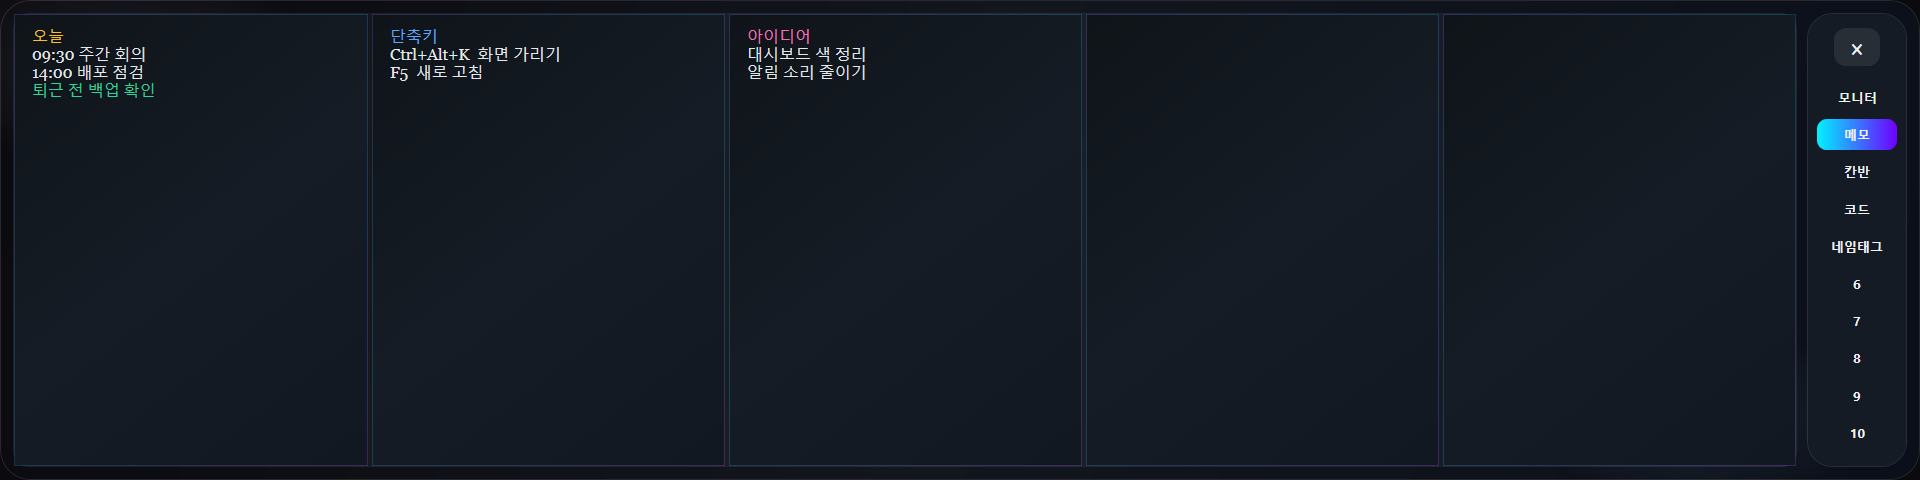
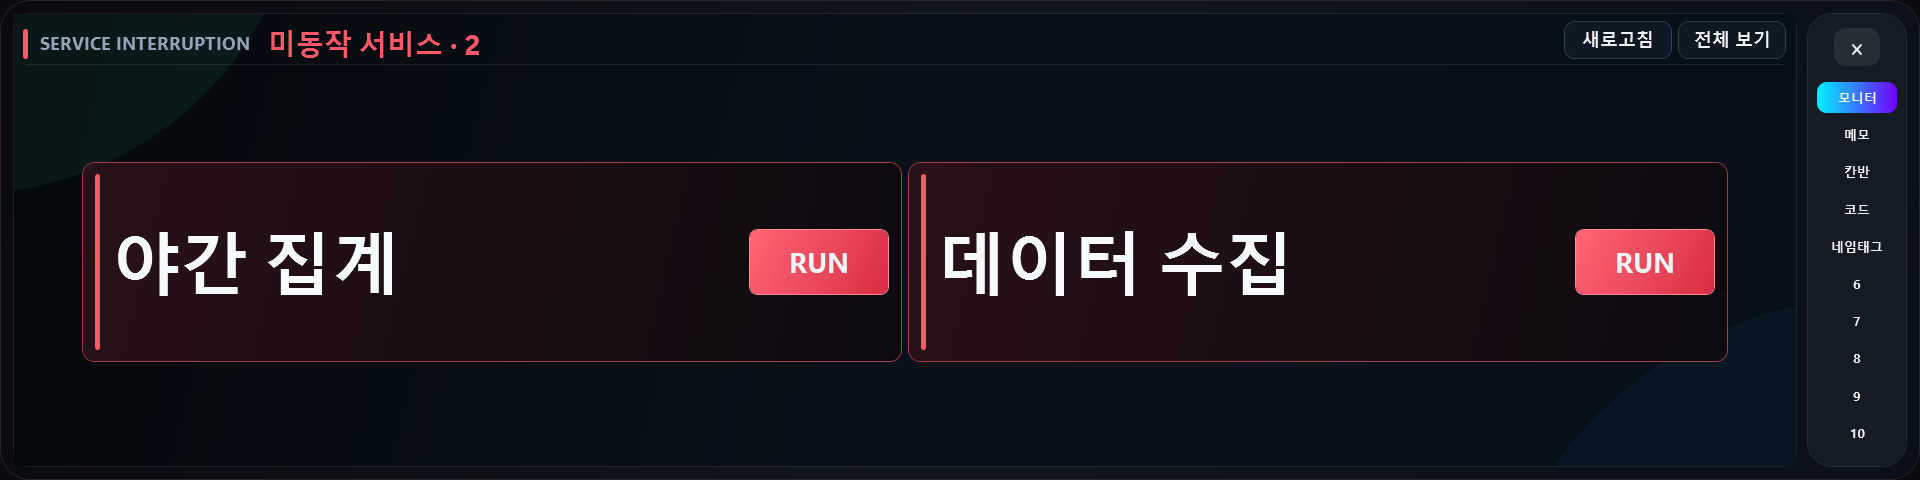
WIDE store screenshots: monitor screen (stopped services, overview); i-api 3.4.2 fills a listed app's screenshots up to three
- wide-1/wide-2 = monitor screen rendered from the real WIDE window with sample services
  (no database), the memo and kanban shots become wide-3/wide-4: WIDE now has 4.
- i-api: an app already in the server list keeps its values; only when it has fewer than three
  screenshots are the shipped ones it lacks appended (same picture = same name), once per app id.

diff --git a/CDEP/Stores/LauncherStore.cs b/CDEP/Stores/LauncherStore.cs
@@ -10,7 +10,7 @@ namespace IApi;
 /// </summary>
 internal sealed partial class LauncherStore
 {
-    public const int CatalogMax = 1_048_576, HistoryKeep = 50, MediaMax = 8 * 1024 * 1024, ScreenshotsMax = 12, DetailsMax = 20_000;
+    public const int CatalogMax = 1_048_576, HistoryKeep = 50, MediaMax = 8 * 1024 * 1024, ScreenshotsMax = 12, ScreenshotsMin = 3, DetailsMax = 20_000;
     private const int MediaKeepUnusedSeconds = 86400;
     public static readonly Dictionary<string, string> MediaTypes = new() { ["png"] = "image/png", ["jpg"] = "image/jpeg" };
 
@@ -170,7 +170,8 @@ internal sealed partial class LauncherStore
 
     /// <summary>
     /// i-api 에 든 서버 목록 원본에서 이 서버가 아직 받은 적 없는 앱을 앱 목록에 더함 (설명 · 상세 설명 · 개발자 · 스크린샷까지 원본 그대로).
-    /// 한 번 본 앱 id 는 seed-applied.json 에 남겨, 관리자가 목록에서 뺀 앱은 다시 넣지 않음. 이미 목록에 있는 앱(id · 예전 id)은 건드리지 않음.
+    /// 한 번 본 앱 id 는 seed-applied.json 에 남겨, 관리자가 목록에서 뺀 앱은 다시 넣지 않음. 이미 목록에 있는 앱(id · 예전 id)은 그대로 두고,
+    /// 스크린샷이 3장보다 적을 때만 원본 그림 중 없는 것을 뒤에 더함 (이것도 그 id 를 처음 볼 때 한 번).
     /// 저장소 주소 = 목록의 다른 앱과 같은 호스트/소유자 (목록이 비면 repositoryBase). 모르면 넣지 않고 다음 시작 때 다시 봄.
     /// 더한 앱 이름들을 돌려줌
     /// </summary>
@@ -195,13 +196,29 @@ internal sealed partial class LauncherStore
             var apps = catalog["apps"]!.AsArray();
             string owner = RepositoryBase(apps) ?? repositoryBase.Trim().TrimEnd('/');
             var added = new List<string>();
+            bool filled = false;
             foreach (var app in fresh)
             {
                 string id = Util.Or(app["id"], "");
-                bool listed = apps.OfType<JsonObject>().Any(existing => string.Equals(Util.Or(existing["id"], ""), id, StringComparison.OrdinalIgnoreCase)
+                var listed = apps.OfType<JsonObject>().FirstOrDefault(existing => string.Equals(Util.Or(existing["id"], ""), id, StringComparison.OrdinalIgnoreCase)
                     || (existing["formerIds"] as JsonArray ?? []).Any(former => string.Equals(Util.AsString(former), id, StringComparison.OrdinalIgnoreCase)));
-                if (listed)
+                if (listed is not null)
                 {
+                    // 이미 있는 앱은 그대로. 스크린샷이 앱 페이지 최소(3장)보다 적을 때만 원본 그림 중 없는 것을 뒤에 더함 (같은 그림 = 같은 이름)
+                    var current = listed["screenshots"] as JsonArray;
+                    if ((current?.Count ?? 0) < ScreenshotsMin && app["screenshots"] is JsonArray seedShots)
+                    {
+                        var names = current is null ? new JsonArray() : (JsonArray)current.DeepClone();
+                        foreach (string shot in seedShots.Select(Util.AsString).OfType<string>())
+                        {
+                            if (names.Count >= ScreenshotsMax || media(shot) is not { Length: > 0 } image) continue;
+                            string name = AddMedia(image);
+                            if (names.Any(existing => Util.AsString(existing) == name)) continue;
+                            names.Add(name);
+                            filled = true;
+                        }
+                        listed["screenshots"] = names;
+                    }
                     applied.Add(id);
                     continue;
                 }
@@ -227,7 +244,7 @@ internal sealed partial class LauncherStore
                 applied.Add(id);
                 added.Add(Util.Or(app["name"], id));
             }
-            if (added.Count > 0)
+            if (added.Count > 0 || filled)
             {
                 var document = new JsonObject { ["schemaVersion"] = 1, ["apps"] = Validate(apps).DeepClone() };
                 SaveFile("catalog.json", Util.Utf8.GetBytes(document.ToJsonString(Util.Indent2).Replace("\r\n", "\n") + "\n"), Util.Or(catalog["revision"], ""));

diff --git a/i-api.Checks/Program.cs b/i-api.Checks/Program.cs
@@ -995,12 +995,17 @@ Check("the GitHub Enterprise host comes from the API address", () =>
 Check("new apps in the server list seed reach an existing list once; a removed one stays removed", () =>
 {
     var store = new LauncherStore(Path.Combine(sandbox, "seeded"), ["github.example.com"]);
-    store.SaveCatalog(J("""[{"id":"terminal-notes","name":"Terminal Notes (고친 이름)","repository":"https://github.example.com/Team/TerminalNotes","description":"고친 설명"}]"""), "");
-    var seed = J("""[{"id":"terminal-notes","name":"Terminal Notes","repository":"TerminalNotes","description":"원본 설명"},{"id":"imperformance","name":"ImPerformance","repository":"ImPerformance","details":"상세","screenshots":["imperformance-1.png","missing.png"]}]""").AsArray();
-    byte[] png = [0x89, (byte)'P', (byte)'N', (byte)'G', 0x0D, 0x0A, 0x1A, 0x0A, 1, 2, 3];
-    Equal("ImPerformance", string.Join(",", store.AddSeedApps(seed, name => name == "imperformance-1.png" ? png : null, "")));
+    byte[] Png(byte tail) => [0x89, (byte)'P', (byte)'N', (byte)'G', 0x0D, 0x0A, 0x1A, 0x0A, 1, 2, tail];
+    byte[]? Shipped(string name) => name switch { "imperformance-1.png" => Png(3), "tn-1.png" => Png(11), "tn-2.png" => Png(12), "tn-3.png" => Png(13), _ => null };
+    // 이미 있는 앱: 스크린샷 2장 (원본의 1 · 2) → 원본에서 없는 3 만 뒤에 더함, 다른 값은 그대로
+    string listedShots = $"\"{store.AddMedia(Png(11))}\",\"{store.AddMedia(Png(12))}\"";
+    store.SaveCatalog(J($$"""[{"id":"terminal-notes","name":"Terminal Notes (고친 이름)","repository":"https://github.example.com/Team/TerminalNotes","description":"고친 설명","screenshots":[{{listedShots}}]}]"""), "");
+    var seed = J("""[{"id":"terminal-notes","name":"Terminal Notes","repository":"TerminalNotes","description":"원본 설명","screenshots":["tn-1.png","tn-2.png","tn-3.png"]},{"id":"imperformance","name":"ImPerformance","repository":"ImPerformance","details":"상세","screenshots":["imperformance-1.png","missing.png"]}]""").AsArray();
+    Equal("ImPerformance", string.Join(",", store.AddSeedApps(seed, Shipped, "")));
     var apps = store.Catalog()["apps"]!.AsArray();
     Equal("Terminal Notes (고친 이름)|고친 설명", $"{apps[0]!["name"]}|{apps[0]!["description"]}", "a listed app keeps its own values");
+    Equal(3, apps[0]!["screenshots"]!.AsArray().Count, "a listed app with fewer than three screenshots gets the missing shipped one");
+    Equal(store.AddMedia(Png(13)), apps[0]!["screenshots"]![2]!.ToString());
     Equal("https://github.example.com/Team/ImPerformance", apps[1]!["repository"]!.ToString(), "host and owner of the other apps");
     Equal(1, apps[1]!["screenshots"]!.AsArray().Count, "only the shipped screenshots");
     True(File.Exists(store.MediaFile(apps[1]!["screenshots"]![0]!.ToString())), "the screenshot is served");

diff --git a/CDEP/README.md b/CDEP/README.md
@@ -107,6 +107,6 @@ python import_app_list.py --server http://<서버 PC>:2003 --repository-base htt
 ```
 
 - 서버에 없는 앱은 모든 값으로 더하고, 이미 있는 앱은 **비어 있는 칸만** 채웁니다 (서버에 있던 값은 그대로).
-- **i-api 3.4.1 부터는 서버가 시작할 때 스스로** 이 원본(i-api 에 들어 있음)에서 그 서버가 아직 받은 적 없는 앱을 더합니다 (설명 · 사진까지, 저장소 주소는 목록의 다른 앱과 같은 호스트/소유자, 목록이 비었으면 `RELAY_UPDATE_REPOSITORY`(없으면 i-api 를 릴리스한 저장소)의 호스트/소유자). 한 번 본 앱 id 는 데이터 폴더의 `launcher\seed-applied.json` 에 남아, 관리자가 앱 목록에서 뺀 앱은 다시 넣지 않습니다. 이미 있는 앱은 건드리지 않습니다. 그래서 새 앱은 `seed/` 에 넣고 i-api 를 업데이트하면 됩니다 (스크립트는 빈 칸 채우기 · 미리 보기용).
+- **i-api 3.4.1 부터는 서버가 시작할 때 스스로** 이 원본(i-api 에 들어 있음)에서 그 서버가 아직 받은 적 없는 앱을 더합니다 (설명 · 사진까지, 저장소 주소는 목록의 다른 앱과 같은 호스트/소유자, 목록이 비었으면 `RELAY_UPDATE_REPOSITORY`(없으면 i-api 를 릴리스한 저장소)의 호스트/소유자). 한 번 본 앱 id 는 데이터 폴더의 `launcher\seed-applied.json` 에 남아, 관리자가 앱 목록에서 뺀 앱은 다시 넣지 않습니다. 이미 있는 앱은 건드리지 않고, 스크린샷이 3장보다 적을 때만 원본 그림 중 없는 것을 뒤에 채웁니다 (3.4.2, 그 앱을 처음 볼 때 한 번). 그래서 새 앱은 `seed/` 에 넣고 i-api 를 업데이트하면 됩니다 (스크립트는 빈 칸 채우기 · 미리 보기용).
 - 기본 목록(모든 런처에 보이는 앱)은 여기가 아니라 GitHub 공지 저장소(`i-luncher-notices`)의 `basic-apps.json` · `basic-media/` 입니다 (예비 목록은 `i-luncher\basic-apps.json`).
 - 앱을 서버 목록에 새로 더하면 `seed/apps.json` 과 `seed/media/<id>-1~3.png` 에도 같이 넣어 둡니다 (사진은 최소 3장).
